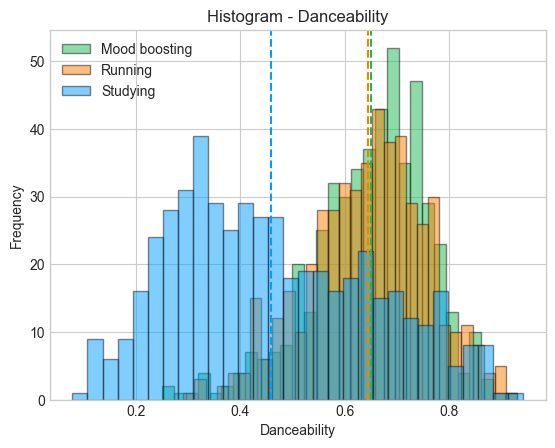
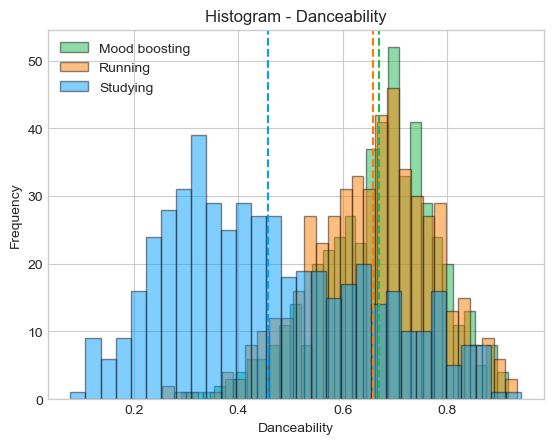
Add final data

Changed region(s): [[0.0, 0.0, 0.9837, 0.9955]]

diff --git a/tables/descriptive_statistics.tex b/tables/descriptive_statistics.tex
@@ -1,24 +1,24 @@
 \begin{tabular}{llrrr}
 \toprule
-        group &      feature &    mean &  standard deviation &  standard error \\
+         group &       feature &    mean &  standard deviation &  standard error \\
 \midrule
-mood boosting &        tempo & 118.726 &              25.795 &           1.159 \\
-      running &        tempo & 125.060 &              21.112 &           0.942 \\
-     studying &        tempo & 119.213 &              31.712 &           1.411 \\
-mood boosting &     loudness &  -6.141 &               2.273 &           0.102 \\
-      running &     loudness &  -5.929 &               2.090 &           0.093 \\
-     studying &     loudness & -20.420 &               7.551 &           0.336 \\
-mood boosting &       energy &   0.680 &               0.158 &           0.007 \\
-      running &       energy &   0.783 &               0.116 &           0.005 \\
-     studying &       energy &   0.201 &               0.194 &           0.009 \\
-mood boosting & danceability &   0.650 &               0.111 &           0.005 \\
-      running & danceability &   0.645 &               0.115 &           0.005 \\
-     studying & danceability &   0.460 &               0.190 &           0.008 \\
-mood boosting &  speechiness &   0.066 &               0.056 &           0.003 \\
-      running &  speechiness &   0.077 &               0.073 &           0.003 \\
-     studying &  speechiness &   0.049 &               0.043 &           0.002 \\
-mood boosting &      valence &   0.592 &               0.209 &           0.009 \\
-      running &      valence &   0.564 &               0.215 &           0.010 \\
-     studying &      valence &   0.233 &               0.186 &           0.008 \\
+ mood boosting &         tempo & 118.717 &              24.605 &           1.101 \\
+       running &         tempo & 125.212 &              22.656 &           1.009 \\
+      studying &         tempo & 119.093 &              31.774 &           1.425 \\
+ mood boosting &      loudness &  -6.503 &               2.780 &           0.124 \\
+       running &      loudness &  -5.975 &               2.155 &           0.096 \\
+      studying &      loudness & -20.593 &               7.465 &           0.335 \\
+ mood boosting &        energy &   0.682 &               0.159 &           0.007 \\
+       running &        energy &   0.769 &               0.122 &           0.005 \\
+      studying &        energy &   0.198 &               0.193 &           0.009 \\
+ mood boosting &  danceability &   0.669 &               0.113 &           0.005 \\
+       running &  danceability &   0.657 &               0.120 &           0.005 \\
+      studying &  danceability &   0.456 &               0.189 &           0.008 \\
+ mood boosting &   speechiness &   0.071 &               0.060 &           0.003 \\
+       running &   speechiness &   0.086 &               0.082 &           0.004 \\
+      studying &   speechiness &   0.049 &               0.043 &           0.002 \\
+ mood boosting &       valence &   0.620 &               0.218 &           0.010 \\
+       running &       valence &   0.566 &               0.222 &           0.010 \\
+      studying &       valence &   0.232 &               0.186 &           0.008 \\
 \bottomrule
 \end{tabular}

diff --git a/tables/t_tests.tex b/tables/t_tests.tex
@@ -1,18 +1,18 @@
 \begin{tabular}{llrrrl}
 \toprule
-   group &      feature &  p-value corrected &  p-value uncorrected &  t-value &  significant \\
+    group &       feature &  p-value corrected &  p-value uncorrected &  t-value &  significant \\
 \midrule
- running &        tempo &              0.000 &                0.000 &   -4.239 &         True \\
-studying &        tempo &              1.000 &                0.790 &   -0.267 &        False \\
- running &     loudness &              1.000 &                0.126 &   -1.532 &        False \\
-studying &     loudness &              0.000 &                0.000 &   40.655 &         True \\
- running &       energy &              0.000 &                0.000 &  -11.687 &         True \\
-studying &       energy &              0.000 &                0.000 &   42.839 &         True \\
- running & danceability &              1.000 &                0.498 &    0.677 &        False \\
-studying & danceability &              0.000 &                0.000 &   19.452 &         True \\
- running &  speechiness &              0.108 &                0.009 &   -2.618 &        False \\
-studying &  speechiness &              0.000 &                0.000 &    5.372 &         True \\
- running &      valence &              0.471 &                0.039 &    2.064 &        False \\
-studying &      valence &              0.000 &                0.000 &   28.625 &         True \\
+  running &         tempo &              0.000 &                0.000 &   -4.348 &         True \\
+ studying &         tempo &              1.000 &                0.835 &   -0.209 &        False \\
+  running &      loudness &              0.010 &                0.001 &   -3.359 &         True \\
+ studying &      loudness &              0.000 &                0.000 &   39.443 &         True \\
+  running &        energy &              0.000 &                0.000 &   -9.684 &         True \\
+ studying &        energy &              0.000 &                0.000 &   43.290 &         True \\
+  running &  danceability &              1.000 &                0.120 &    1.556 &        False \\
+ studying &  danceability &              0.000 &                0.000 &   21.510 &         True \\
+  running &   speechiness &              0.015 &                0.001 &   -3.239 &         True \\
+ studying &   speechiness &              0.000 &                0.000 &    6.588 &         True \\
+  running &       valence &              0.001 &                0.000 &    3.879 &         True \\
+ studying &       valence &              0.000 &                0.000 &   30.123 &         True \\
 \bottomrule
 \end{tabular}
